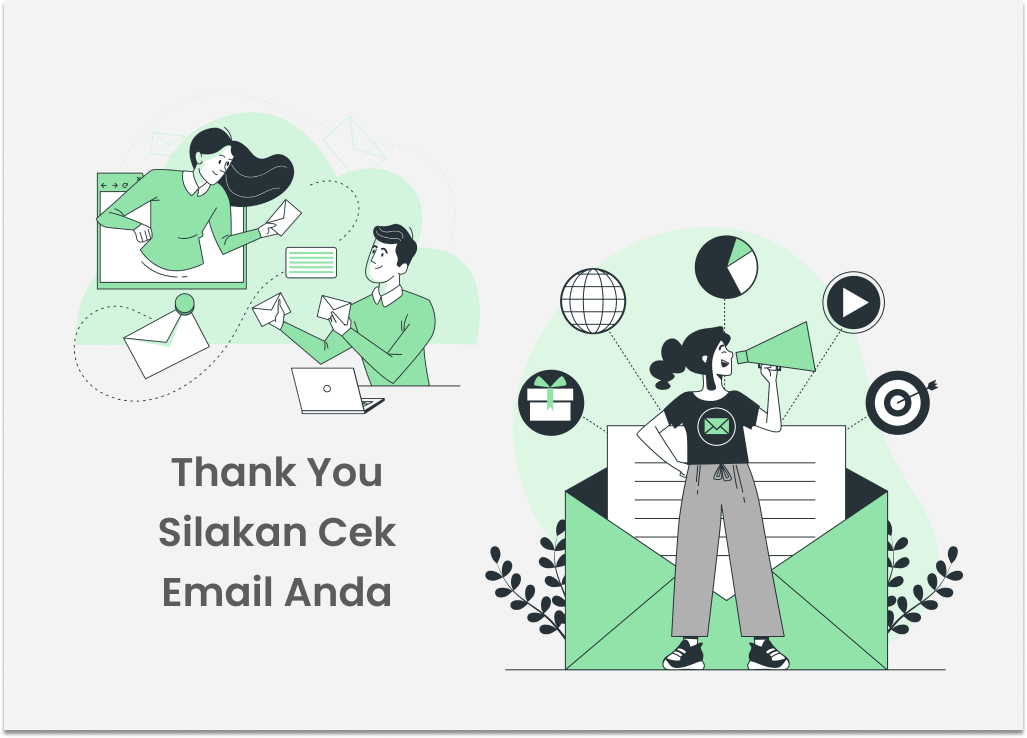
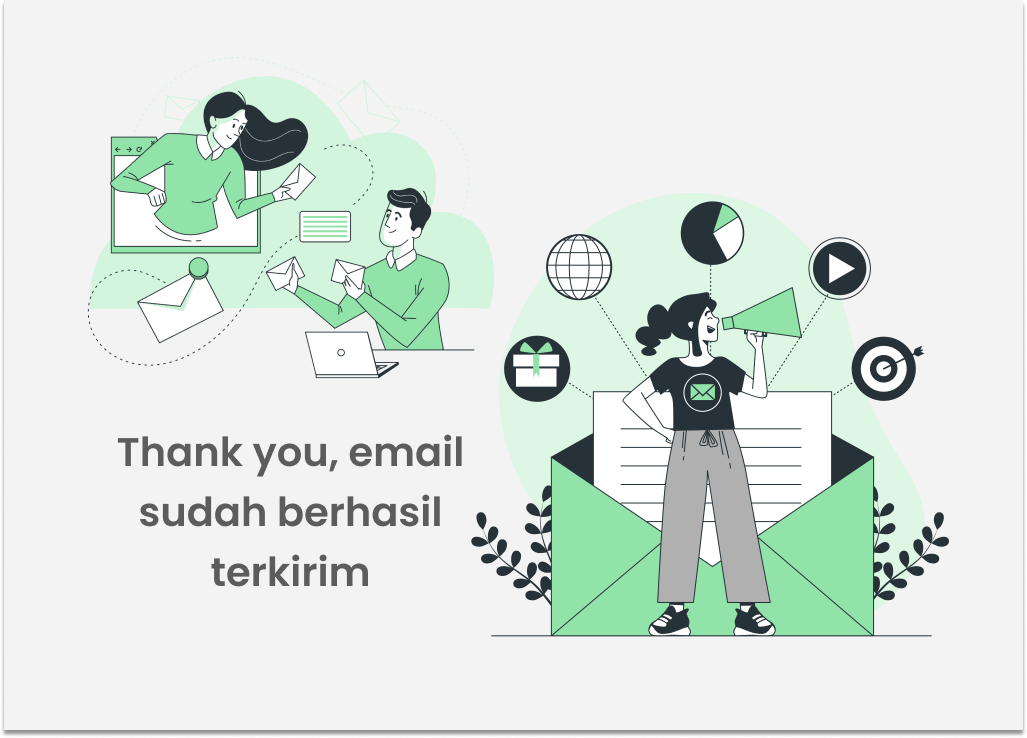
Mengedit controller dan image

Changed region(s): [[0.4362, 0.2493, 0.9348, 0.935], [0.0623, 0.0935, 0.4985, 0.561], [0.0935, 0.5921, 0.4674, 0.8415]]

diff --git a/src/main/resources/templates/EmailRegistered.html b/src/main/resources/templates/EmailRegistered.html
@@ -1,0 +1,72 @@
+<!DOCTYPE html>
+<html lang="en">
+  <head>
+    <meta charset="UTF-8" />
+    <meta name="viewport" content="width=device-width, initial-scale=1.0" />
+    <script src="https://cdn.tailwindcss.com"></script>
+    <title>Email Succes</title>
+  </head>
+  <body>
+    <nav
+      class="bg-gray-50 fixed w-full z-20 top-0 left-0 border-b border-gray-200"
+    >
+      <div
+        class="max-w-screen-xl flex flex-wrap items-center justify-between mx-auto p-4"
+      >
+        <a href="" class="flex items-center">
+          <img
+            th:src="@{/images/logo7.png}"
+            class="h-11 mr-3"
+            alt="Kelompok 7"
+          />
+          <span
+            class="self-center text-2xl font-semibold whitespace-nowrap dark:text-black"
+            >KELOMPOK 7</span
+          >
+        </a>
+        <div class="flex md:order-2">
+          <label class="relative inline-flex items-center cursor-pointer">
+            <input type="checkbox" value="" class="sr-only peer" />
+            <div
+              class="w-11 h-6 bg-gray-200 peer-focus:outline-none peer-focus:ring-4 peer-focus:ring-blue-300 dark:peer-focus:ring-green-800 rounded-full peer dark:bg-gray-700 peer-checked:after:translate-x-full peer-checked:after:border-white after:content-[''] after:absolute after:top-[2px] after:left-[2px] after:bg-white after:border-gray-300 after:border after:rounded-full after:h-5 after:w-5 after:transition-all dark:border-gray-600 peer-checked:bg-green-400"
+            ></div>
+            <span
+              class="ml-3 text-sm font-medium text-gray-900 dark:text-gray-300"
+              >Dark Mode</span
+            >
+          </label>
+        </div>
+      </div>
+    </nav>
+
+    <section
+      class="bg-gray-50 min-h-screen flex items-center justify-center pt-24"
+    >
+      <img
+        th:src="@{/images/Cek email.png}"
+        class="max-w-4xl"
+        alt="404 Not Found"
+      />
+    </section>
+
+    <script>
+      // Ambil elemen-elemen yang diperlukan
+      const darkModeToggle = document.querySelector('input[type="checkbox"]');
+      const sectionBackground = document.querySelector("section");
+
+      // Fungsi untuk mengubah mode gelap
+      function toggleDarkMode() {
+        if (darkModeToggle.checked) {
+          // Aktifkan mode gelap
+          sectionBackground.classList.add("bg-gray-900");
+        } else {
+          // Matikan mode gelap
+          sectionBackground.classList.remove("bg-gray-900");
+        }
+      }
+
+      // Tambahkan event listener ke tombol toggle dark mode
+      darkModeToggle.addEventListener("change", toggleDarkMode);
+    </script>
+  </body>
+</html>

diff --git a/src/main/resources/templates/form.html b/src/main/resources/templates/form.html
@@ -108,7 +108,6 @@
               placeholder="Phone"
               field="*{phone}"
               onblur="validatePhone()"
-
             />
             <button
               class="bg-[#2cb061] rounded-xl text-black py-2 hover:scale-105 duration-300"
@@ -126,12 +125,7 @@
       </div>
     </section>
 
-    
-
-    
     <script>
-
-
       function togglePasswordVisibility() {
         const passwordInput = document.querySelector('input[name="password"]');
         const passwordToggleIcon =

diff --git a/src/main/java/id/co/mii/serverapp/services/AuthService.java b/src/main/java/id/co/mii/serverapp/services/AuthService.java
@@ -55,9 +55,9 @@ public class AuthService {
     employee.setName(registrationRequest.getName());
     employee.setUuid(uuid.toString());
 
-    List<Role> roles = Collections.singletonList(roleService.getById(1));
-    user.setRoles(roles);
+    List<Role> roles = Collections.singletonList(roleService.getById(2));
 
+    user.setRoles(roles);
     employee.setUser(user);
     user.setEmployee(employee);
 

diff --git a/src/main/java/id/co/mii/serverapp/controllers/RegistrationController.java b/src/main/java/id/co/mii/serverapp/controllers/RegistrationController.java
@@ -51,7 +51,7 @@ public class RegistrationController {
     public String registration(
             @ModelAttribute RegistrationRequest registrationRequest) {
         authService.registration(registrationRequest);
-        return "success";
+        return "EmailRegistered";
     }
 
 }
